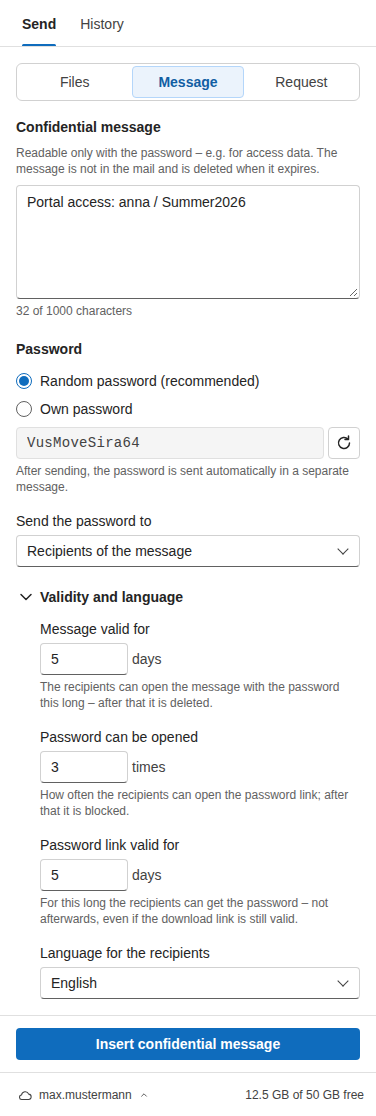
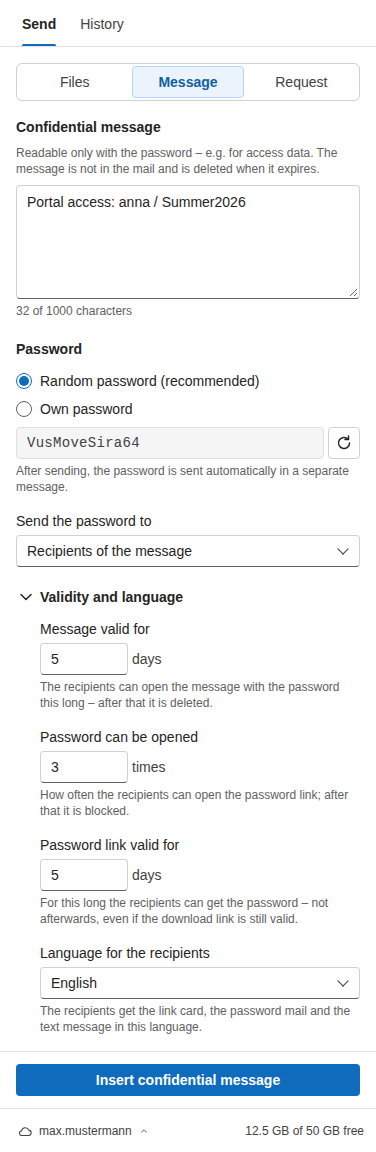
A deleted sent mail is not opened; hint under "Sprache für die Empfänger" (#79)
* A deleted sent mail is not opened; hint under "Sprache für die Empfänger"

- "Verlauf": before opening the sent mail the server asks Graph where it
  lies (sentMailState, Mail.Read). In Deleted Items or – after emptying
  them – in Recoverable Items (Exchange keeps it hidden for a while and
  Outlook would still open it) it says "Die gesendete Nachricht wurde
  gelöscht." instead; a failed check opens the mail as before.
- A short hint under "Sprache für die Empfänger".

* README picture "Message" with the hint under the recipient language

---------

diff --git a/server/test/api.test.ts b/server/test/api.test.ts
@@ -46,6 +46,7 @@ vi.mock("../src/graph.js", async (importOriginal) => ({
   sendMail: vi.fn(async () => undefined),
   sendMailAsApp: vi.fn(async () => undefined),
   ewsIdFor: vi.fn(async (_token: string, id: string) => (id === "AAMk-gone" ? null : `ews-${id}`)),
+  sentMailState: vi.fn(async (_token: string, id: string) => (id === "AAMk-deleted" ? "deleted" : "ok")),
 }));
 // seven.io is not contacted: the SMS of "Kennwort erneut senden" goes to this double.
 vi.mock("../src/sms.js", async (importOriginal) => ({
@@ -510,6 +511,7 @@ describe("confidential messages", () => {
     recordSentMail(["msg-m1"], { owner: "oid-anna", subject: "Zugangsdaten", mailId: "AAMk-1", keepUntil });
     recordSentMail(["msg-m2"], { owner: "oid-anna", subject: "Alt", mailId: "AAMk-gone", keepUntil });
     recordSentMail(["msg-m3"], { owner: "oid-anna", subject: "Freigegebenes Postfach", keepUntil }); // no ID
+    recordSentMail(["msg-m4"], { owner: "oid-anna", subject: "Gelöscht", mailId: "AAMk-deleted", keepUntil });
     const mail = (id: string, who = "anna") => app.inject({ method: "GET", url: `/api/shares/${id}/mail`, headers: as(who) });
 
     const res = await mail("msg-m1");
@@ -519,6 +521,10 @@ describe("confidential messages", () => {
     expect((await mail("msg-m2")).statusCode).toBe(404); // deleted in the mailbox
     expect((await mail("msg-m3")).statusCode).toBe(404); // sent from a shared mailbox
     expect((await mail("msg-none")).statusCode).toBe(404); // sent before this version
+    // In Deleted Items or – after emptying it – in Recoverable Items: not opened, Outlook would still show it.
+    const deleted = await mail("msg-m4");
+    expect(deleted.statusCode).toBe(404);
+    expect(deleted.json().error).toBe("Die gesendete Nachricht wurde gelöscht.");
   });
 
   it("tells the add-in the limits", async () => {

diff --git a/server/test/graph.test.ts b/server/test/graph.test.ts
@@ -1,5 +1,5 @@
 import { afterEach, describe, expect, it, vi } from "vitest";
-import { ewsIdFor, fetchProfile, findSentMessage, JOB_PROPERTY, sendMail } from "../src/graph.js";
+import { ewsIdFor, fetchProfile, findSentMessage, JOB_PROPERTY, sendMail, sentMailState } from "../src/graph.js";
 import { json, mockFetch } from "./helpers.js";
 
 const CUSTOM_PROPS_ID =
@@ -129,5 +129,25 @@ describe("ewsIdFor", () => {
   it("returns null when Exchange does not know the mail (any more)", async () => {
     mockFetch(json({ value: [{ sourceId: "x", errorDetails: { code: "ErrorItemNotFound" } }] }));
     expect(await ewsIdFor("token", "x")).toBeNull();
+  });
+});
+
+describe("sentMailState", () => {
+  it("knows a mail that lies in a mail folder", async () => {
+    mockFetch(json({ parentFolderId: "sent" }), json({ id: "deleted" }), json({ id: "dumpster" }));
+    expect(await sentMailState("token", "AAk-1")).toBe("ok");
+  });
+
+  it("counts a mail in Deleted Items or – after emptying it – in Recoverable Items as deleted", async () => {
+    const { call } = mockFetch(json({ parentFolderId: "dumpster" }), json({ id: "deleted" }), json({ id: "dumpster" }));
+    expect(await sentMailState("token", "AAk-1")).toBe("deleted");
+    expect(call(0).url).toContain("/me/messages/AAk-1?$select=parentFolderId");
+    expect((call(0).init.headers as Record<string, string>).Prefer).toBe(`IdType="ImmutableId"`);
+    expect(call(2).url).toContain("/me/mailFolders/recoverableitemsdeletions");
+  });
+
+  it("knows when Exchange no longer has the mail", async () => {
+    mockFetch(json({ error: { code: "ErrorItemNotFound" } }, 404));
+    expect(await sentMailState("token", "AAk-1")).toBe("gone");
   });
 });

diff --git a/server/src/app.ts b/server/src/app.ts
@@ -9,7 +9,7 @@ import { existsSync } from "node:fs";
 import { appGraphToken, authenticate, HttpError, onBehalfOf, type User } from "./auth.js";
 import { config, SEND_DAYS_LIMIT } from "./config.js";
 import { getCredentials, removeCredentials, saveCredentials } from "./credentials.js";
-import { ewsIdFor, fetchProfile, GRAPH_PROFILE_SCOPES, GRAPH_SCOPES, sendMail, sendMailAsApp, type MailRecipients } from "./graph.js";
+import { ewsIdFor, fetchProfile, GRAPH_PROFILE_SCOPES, GRAPH_SCOPES, sendMail, sendMailAsApp, sentMailState, type MailRecipients } from "./graph.js";
 import {
   addFileToJob,
   addNoticeShare,
@@ -820,6 +820,15 @@ export async function buildApp(options: { logger?: boolean } = {}) {
     }
     const mailId = sentMailFor(token, user.oid)?.mailId;
     if (!mailId) throw new HttpError(404, t("server.mailUnknown"));
+    // Deleted (also after emptying "Deleted Items": Exchange keeps it hidden for a while) – not opened. If the check
+    // itself fails, the mail is opened as before.
+    const state = await onBehalfOf(user, GRAPH_SCOPES)
+      .then(({ token: mailToken }) => sentMailState(mailToken, mailId))
+      .catch((err) => {
+        req.log.warn({ err, user: user.upn }, "State of the sent mail not checked");
+        return "ok" as const;
+      });
+    if (state !== "ok") throw new HttpError(404, t("server.mailDeleted"));
     const { token: graphToken } = await onBehalfOf(user, GRAPH_PROFILE_SCOPES);
     const ewsId = await ewsIdFor(graphToken, mailId).catch((err) => {
       req.log.warn({ err, user: user.upn }, "Mail ID not translated");

diff --git a/server/src/graph.ts b/server/src/graph.ts
@@ -216,3 +216,22 @@ export async function ewsIdFor(graphToken: string, immutableId: string): Promise
   const json = (await res.json()) as { value?: Array<{ targetId?: string }> };
   return json.value?.[0]?.targetId || null;
 }
+
+/**
+ * Whether the sent mail is still where the user keeps mails: "deleted" when it lies in "Deleted Items" or – after the
+ * folder was emptied – in the hidden "Recoverable Items" (Exchange keeps it there for a while, and Outlook would still
+ * open it by its ID), "gone" when Exchange no longer has it. Needs Mail.Read.
+ */
+export async function sentMailState(graphToken: string, immutableId: string): Promise<"ok" | "deleted" | "gone"> {
+  const headers = { Authorization: `Bearer ${graphToken}`, Prefer: `IdType="ImmutableId"` };
+  const get = (path: string) => fetch(`https://graph.microsoft.com/v1.0/me/${path}`, { headers });
+  const res = await get(`messages/${encodeURIComponent(immutableId)}?$select=parentFolderId`);
+  if (res.status === 404) return "gone";
+  if (!res.ok) throw new Error(`Graph message: HTTP ${res.status}`);
+  const { parentFolderId } = (await res.json()) as { parentFolderId?: string };
+  for (const folder of ["deleteditems", "recoverableitemsdeletions"]) {
+    const f = await get(`mailFolders/${folder}?$select=id`);
+    if (f.ok && ((await f.json()) as { id?: string }).id === parentFolderId) return "deleted";
+  }
+  return "ok";
+}

diff --git a/addin/src/taskpane/taskpane.html b/addin/src/taskpane/taskpane.html
@@ -229,8 +229,9 @@
               <div class="field" id="recipient-language-field">
                 <label for="recipient-language" class="label">%%t:addin.recipientLanguage.label%%</label>
                 <div class="select-wrap">
-                  <select id="recipient-language" class="input select"></select>
+                  <select id="recipient-language" class="input select" aria-describedby="recipient-language-hint"></select>
                 </div>
+                <p class="hint" id="recipient-language-hint">%%t:addin.recipientLanguage.hint%%</p>
               </div>
             </div>
           </div>

diff --git a/docs/architecture.md b/docs/architecture.md
@@ -375,7 +375,8 @@ mail it stores per link the subject and the mail's Graph ID (store `sent-mails`,
 `Prefer: IdType="ImmutableId"` so it survives moving the mail; only for the user's own mailbox, not a shared one).
 "History" titles each entry with that subject and opens the mail on a click (`openSentMail`: `GET /api/shares/:id/mail`
 translates the immutable ID into the current EWS ID with Graph `translateExchangeIds` – Outlook cannot open the
-immutable form – then `displayMessageFormAsync`, which reports a failure); until the mail is sent the entry is titled with its file, as before.
+immutable form – then `displayMessageFormAsync`, which reports a failure; a mail in Deleted Items or – after emptying them – in
+Recoverable Items counts as deleted, `sentMailState`); until the mail is sent the entry is titled with its file, as before.
 
 ### 2.11 Personal settings
 
@@ -456,7 +457,7 @@ Errors are `{ error, code? }` with a message in the configured language, shown i
 | `POST /api/messages` | Confidential message: text → password-protected Vaultwarden Send, joins the mail's password job |
 | `GET /api/shares`, `DELETE /api/shares/:id`, `POST /api/shares/:id/link` | "History": list (all valid links and confidential messages – `msg-<Send ID>`, `kind: "message"`, deleted in Vaultwarden on revoke –, each with `subject` and `mailId` of its sent mail, newest first, max. 100; loaded with the tab, when the pane regains focus and by the refresh button in the tab bar), revoke, insert again; also the read mode (2.9) |
 | `GET /api/shares/:id/password`, `POST /api/shares/:id/password/send` | The password of a sent link (owner only, until the link expires) and sending it again by SMS or password mail (2.10) |
-| `GET /api/shares/:id/mail` | "History": the sent mail of an entry as the EWS ID Outlook opens (`displayMessageFormAsync`) – the immutable Graph ID kept at sending, translated now with `translateExchangeIds` (User.Read), so it follows a moved mail; 404 if none is known or it is gone |
+| `GET /api/shares/:id/mail` | "History": the sent mail of an entry as the EWS ID Outlook opens (`displayMessageFormAsync`) – the immutable Graph ID kept at sending, translated now with `translateExchangeIds` (User.Read), so it follows a moved mail; 404 if none is known or it is gone – also when it lies in Deleted Items or, after emptying them, in Recoverable Items (`sentMailState`, Mail.Read), where Outlook would still open it |
 | `PATCH /api/jobs/:id` | Change `maxAccess` (updates the Send), `passwordTo` or `passwordSms` until the password went out |
 | `POST /api/jobs/:id/arm` | Arm the password mail (send handler); also reads the sender's name and department for the templates |
 | `GET/POST /webhooks/seven?token=…` | seven.io delivery reports (no login, secret `SEVEN_WEBHOOK_SECRET`) |
